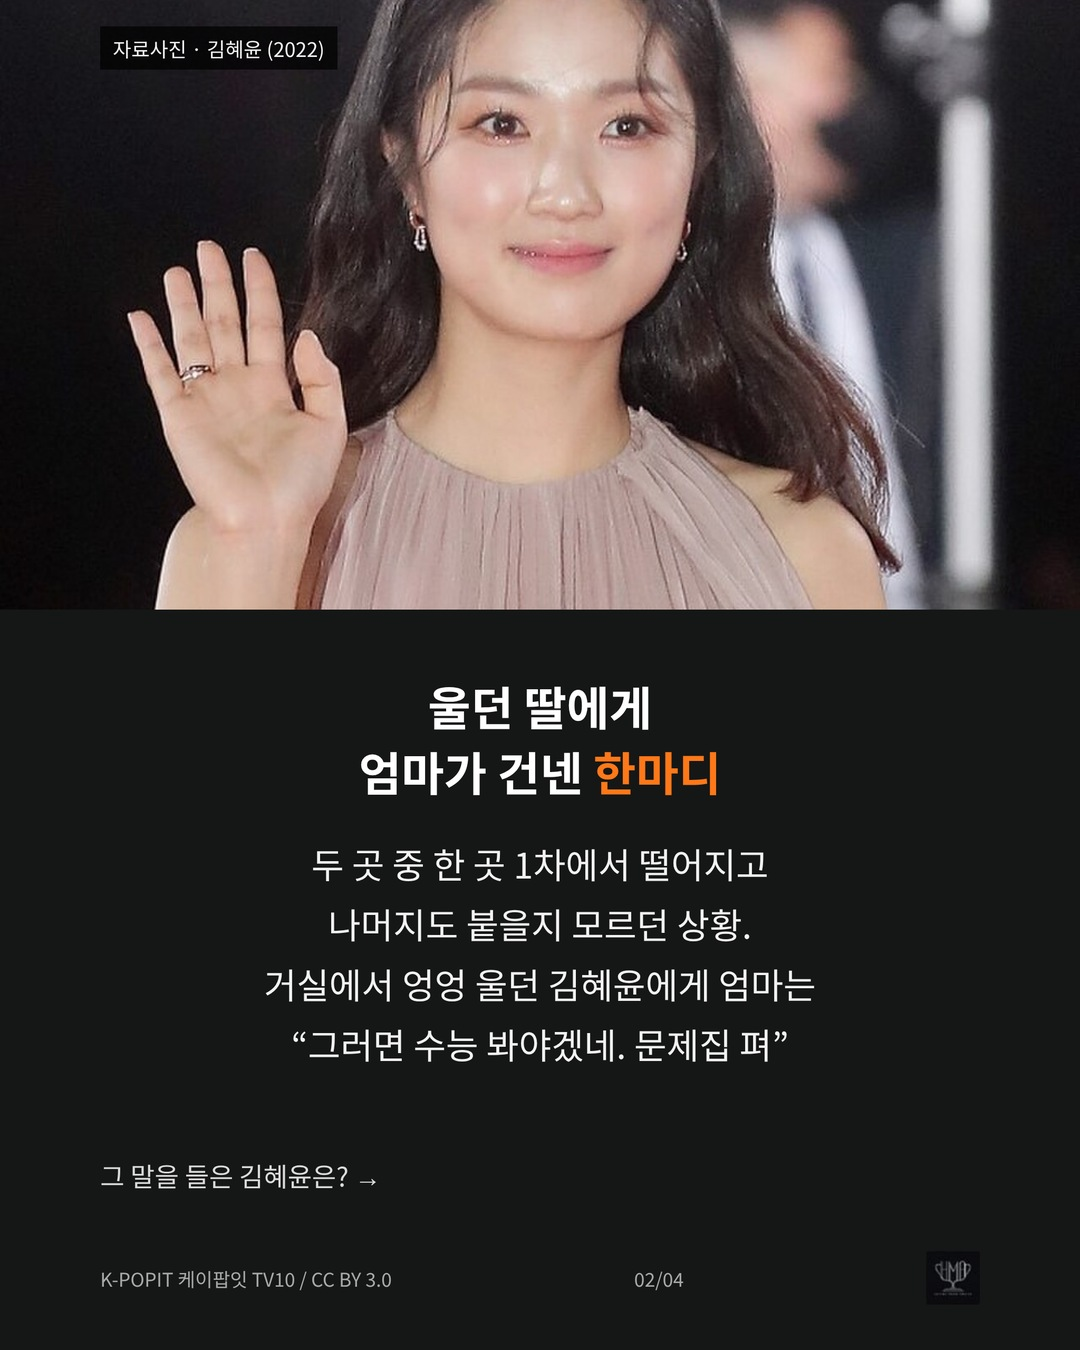
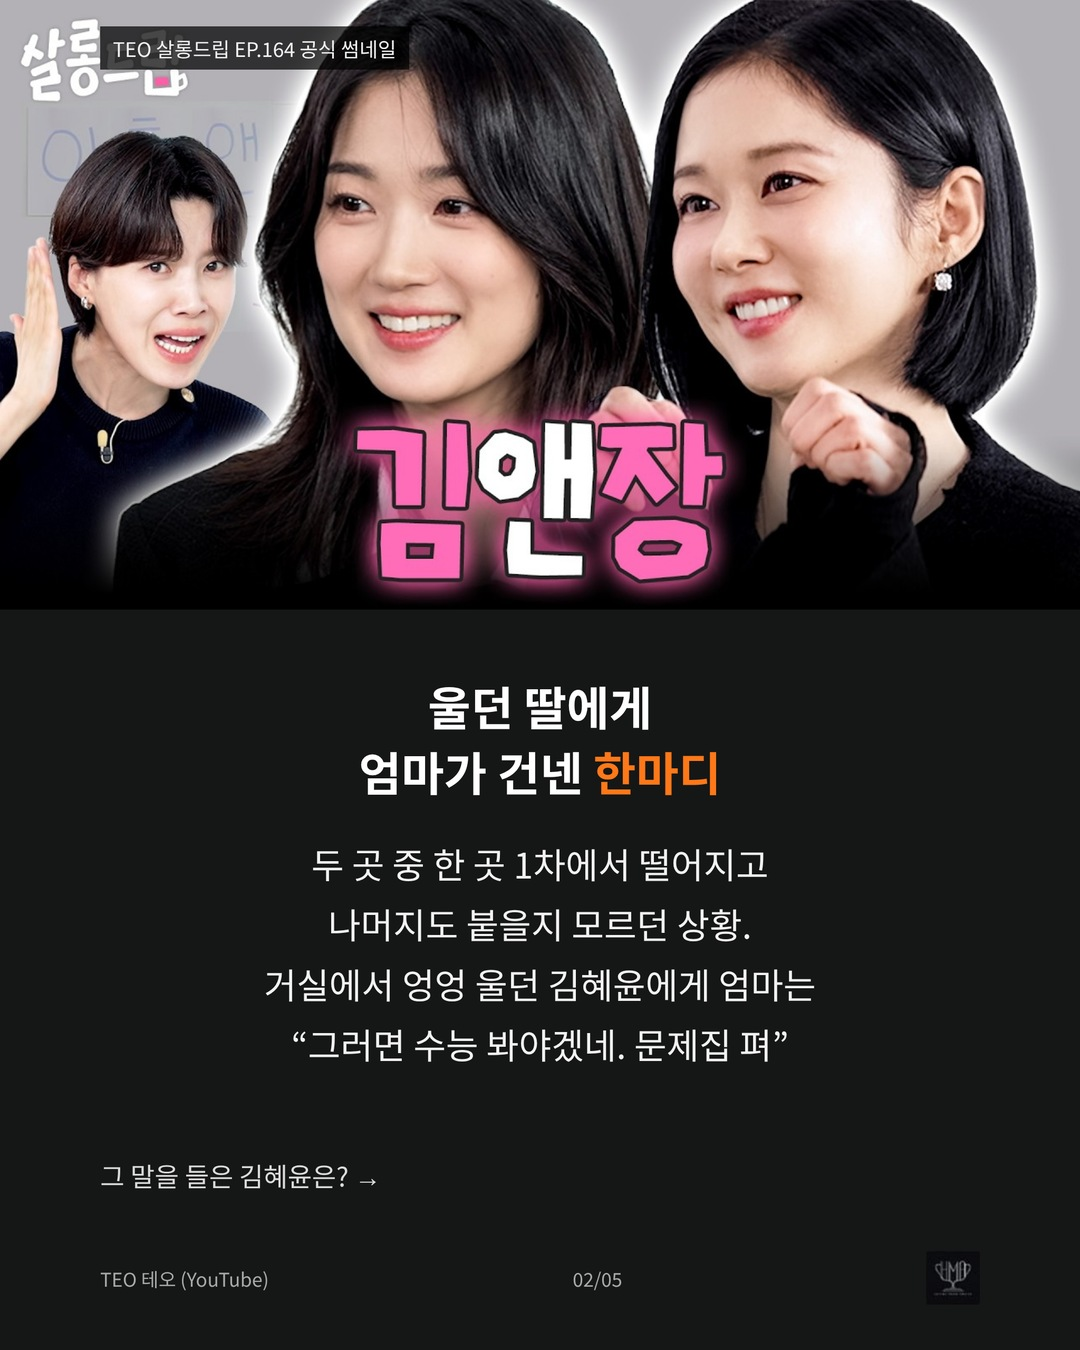
LC001 v2: Salon Drip thumbnail and Good Partner 2 poster per user
Claude-Session: https://claude.ai/code/session_01FZpj48j1KtN8ZXrT8XPz2y

diff --git a/ops/evidence/LC001.md b/ops/evidence/LC001.md
@@ -10,3 +10,7 @@
 | 굿파트너2 11월 20일 금 21:50 SBS | 42:04~42:19, 스포츠동아 |
 사진: khy2026 = Commons "Kim Hye-yoon at Salmokji Press Conference 2026" CC BY 3.0 (K-POPit 티비텐) / khy2022 = Commons "Kim Hye-yoon 김혜윤 2022" CC BY 3.0 (K-POPIT 케이팝잇 TV10) / jnr2019 = Commons "191025 장나라" CC BY 3.0 (뉴스인스타). 크레딧 이미지 하단 표기.
 음악(미적용): 추천 장나라 "Sweet Dream"(2002) — 같은 회차에서 장나라 노래로 언급(27:48), 함께 출연 인물 연결. 대체 장나라 "고백"(2001) — 곡 정보 재확인 필요.
+
+## v2 7a41e65f6ffc (2026-11-18, 사용자 요청 수정)
+- 2장: TEO 살롱드립 EP.164 공식 유튜브 썸네일(i.ytimg.com/vi/4KYqNmt6MQA/maxresdefault.jpg) - 김혜윤·장나라·장도연 3인. 권리: TEO 저작물, 재사용 허락 미확인.
+- 4장 신규: SBS '굿파트너2' 공식 메인 포스터(10/30 공개, 스페셜타임스 2026-11-09 게재본 600x856). 권리: SBS 홍보물, 인스타 재사용 허락 미확인. 배역(차은경·강혜성) 위키트리 2026-11-09 및 원영상 17:30 대조.
